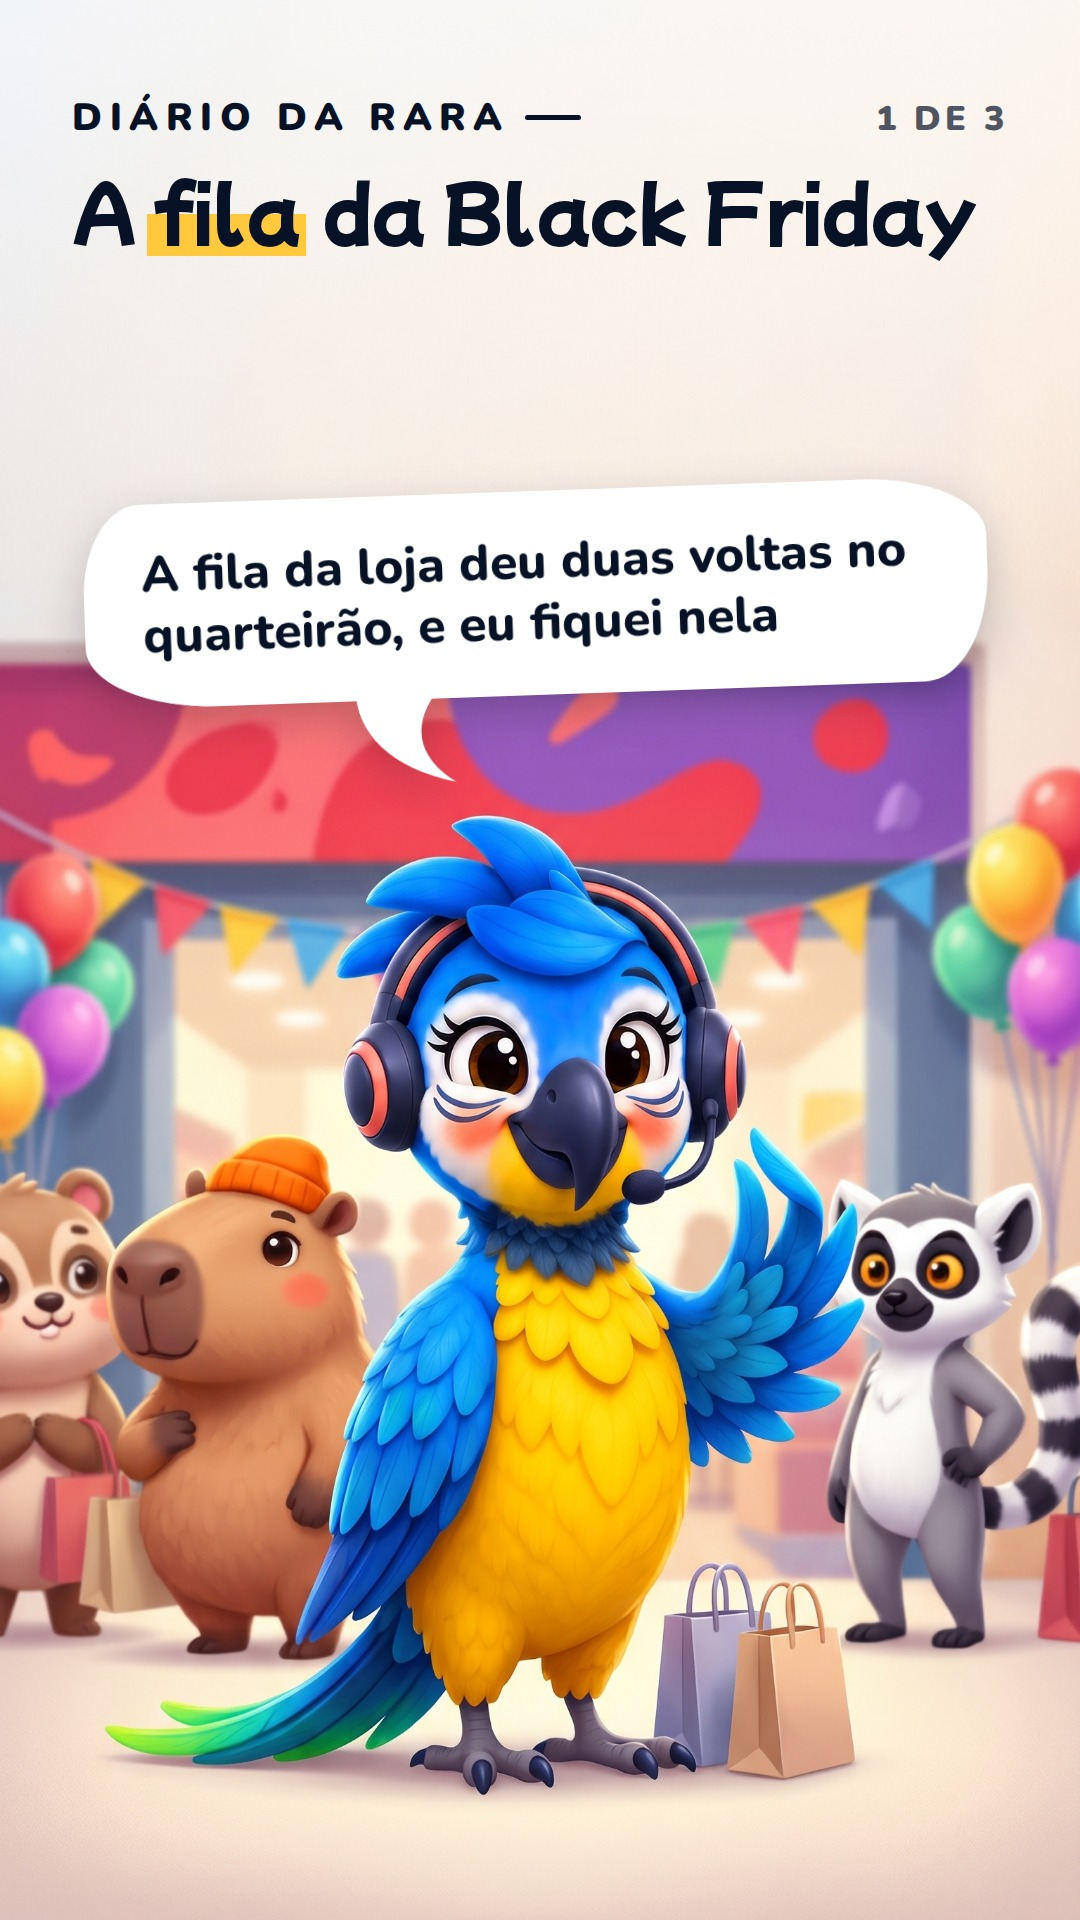
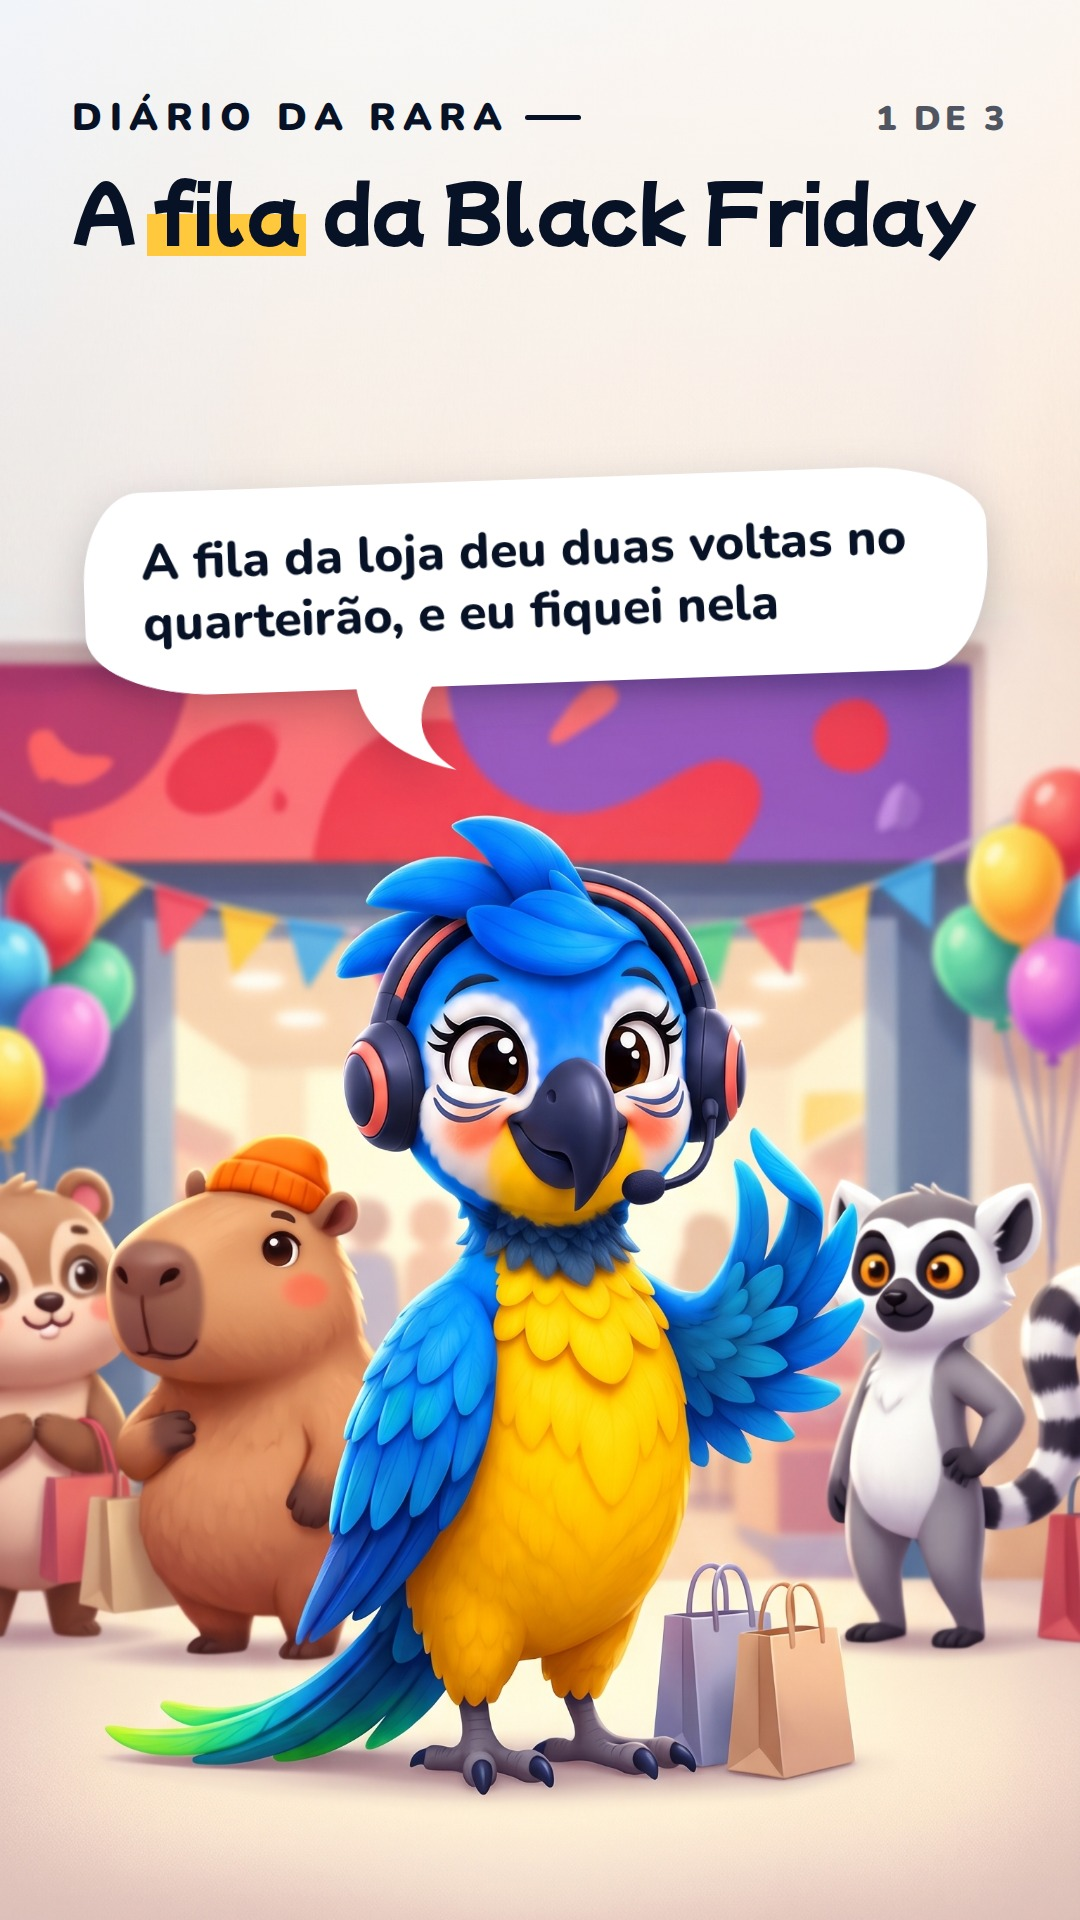
fix(arte): distância do balão à cabeça calibrada (ponta a ~52 px)

Changed region(s): [[0.0917, 0.2188, 0.8861, 0.4062], [0.8556, 0.25, 0.9167, 0.2812], [0.8861, 0.3125, 0.9167, 0.3438]]

diff --git a/semana_23_29_diario/compor_telas.py b/semana_23_29_diario/compor_telas.py
@@ -7,7 +7,7 @@ SC = HERE.parent / 'semana1' / '_scripts'
 # topo do personagem em px (1920): onde o balão NÃO pode chegar
 HX = {'seg':[540,540,540],'qua':[560,560,560],'sex':[470,480,480],'sab':[590,590,780],'dom':[570,570,570]}
 EPS = {
- 'seg': dict(img=['seg_escritorio_v1.jpg', 'seg_2.jpg', 'seg_3.jpg'], sel='DIÁRIO DA RARA', topo=[613, 613, 470], titulo='Cheguei primeiro', kw='primeiro',
+ 'seg': dict(img=['seg_escritorio_v1.jpg', 'seg_2.jpg', 'seg_3.jpg'], sel='DIÁRIO DA RARA', topo=[613, 613, 607], titulo='Cheguei primeiro', kw='primeiro',
    telas=[ ['Hoje eu cheguei às 7h e o escritório inteiro estava vazio, só pra mim'],
            ['Aproveitei pra treinar o japonês do trabalho em voz alta. Falei <span style="white-space:nowrap">「お疲れ様です」</span>, que quer dizer “obrigada pelo esforço”, pra uma cadeira vazia', '<small>e a cadeira, claro, não respondeu</small>'],
            ['Aí eu descobri por que ninguém veio... é feriado no Japão...'] ]),
@@ -63,7 +63,7 @@ const b=document.getElementById('bal');const topo={d['topo'][i]};const bottomMax
 // ancora o balão logo acima do topo do personagem (rabinho 36 px) e deixa crescer para cima
 const tit=document.querySelector('.tit');const minTop=tit?(tit.offsetTop+tit.offsetHeight+28):150;
 let fs=50,sm=40;
-function ajusta(){{b.style.fontSize=fs+'px';b.querySelectorAll('small').forEach(e=>{{e.style.fontSize=sm+'px'}});b.style.top=(topo-124-b.offsetHeight)+'px';}}
+function ajusta(){{b.style.fontSize=fs+'px';b.querySelectorAll('small').forEach(e=>{{e.style.fontSize=sm+'px'}});b.style.top=(topo-136-b.offsetHeight)+'px';}}
 ajusta();
 while(b.offsetTop<minTop&&fs>40){{fs-=2;sm=Math.max(36,sm-2);ajusta();}}
 if(b.offsetTop<minTop){{b.style.padding='22px 40px';ajusta();}}
